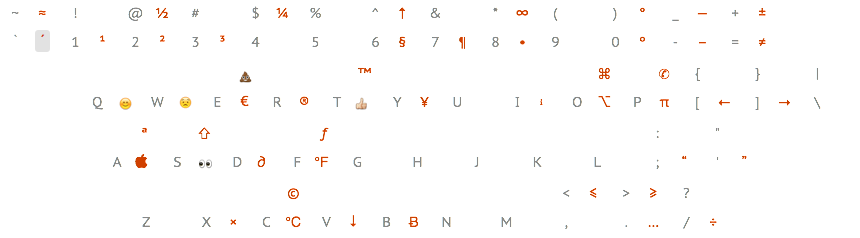
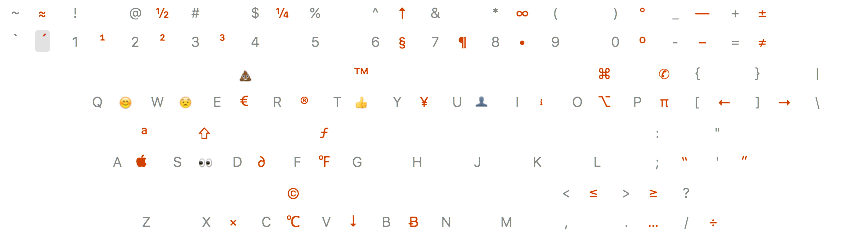
Add 👤 symbol

diff --git a/css/main.css b/css/main.css
@@ -68,8 +68,8 @@ body {
 
 h1 {
     color: #999;
-    font-family: Helvetica Neue, Helvetica, Arial, sans-serif;
-    font-weight: lighter;
+    font-family: "SF UI Display", "Helvetica Neue", Helvetica, Arial, sans-serif;
+    font-weight: 300;
 }
 
 .switcher a {
@@ -139,6 +139,7 @@ h1 {
     .details {
         color: #999;
     }
+
 
 
 /* ==========================================================================
